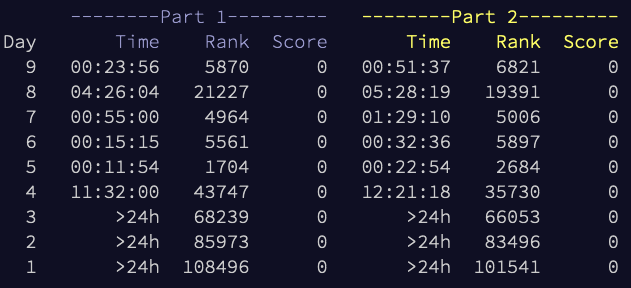
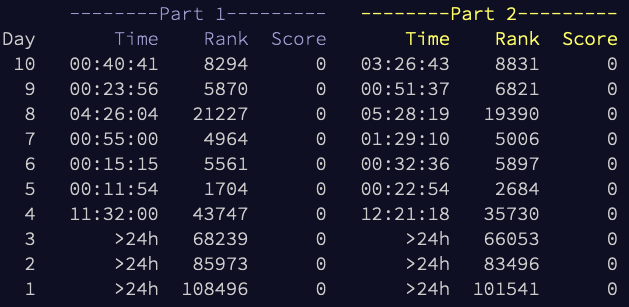
day 10

diff --git a/day_10.js b/day_10.js
@@ -1,0 +1,180 @@
+'use strict'
+
+const rawInput = `56
+139
+42
+28
+3
+87
+142
+57
+147
+6
+117
+95
+2
+112
+107
+54
+146
+104
+40
+26
+136
+127
+111
+47
+8
+24
+13
+92
+18
+130
+141
+37
+81
+148
+31
+62
+50
+80
+91
+33
+77
+1
+96
+100
+9
+120
+27
+97
+60
+102
+25
+83
+55
+118
+19
+113
+49
+133
+14
+119
+88
+124
+110
+145
+65
+21
+7
+74
+72
+61
+103
+20
+41
+53
+32
+44
+10
+34
+121
+114
+67
+69
+66
+82
+101
+68
+84
+48
+73
+17
+43
+140`
+  .split('\n')
+
+const ex0 = `16
+10
+15
+5
+1
+11
+7
+19
+6
+12
+4`.split('\n')
+const example = `28
+33
+18
+42
+31
+14
+46
+20
+48
+47
+24
+23
+49
+45
+19
+38
+39
+11
+1
+32
+25
+35
+8
+17
+7
+9
+4
+2
+34
+10
+3`
+  .split('\n')
+
+const real = 1
+let input = real ? rawInput : example
+input.push(0)
+
+input = input.map(v => 1 * v).sort((a, b) => a - b)
+
+//  Find the count of 1 and 3 step intervals between adapter ratings.
+const q1 = () => {
+  let d1 = 1, d3 = 1, last = 0, d
+
+  for (const v of input) {
+    d = v - last
+    if (v && d === 0) console.log('THE SAME!', v)
+    if (last) {
+      if (d === 3) {
+        ++d3
+      } else if (d === 1) ++d1
+    }
+    last = v
+  }
+  return { d1, d3 }
+}
+
+const end = Math.max.apply(0, input) + 3
+console.log('device', end)
+const a1 = q1(input)
+console.log('Q1:', a1.d1 * a1.d3)
+
+//  Find number of all possible adapter sequences.
+
+let reachables = [[end, 1]], variantsCount
+
+for (let i = input.length, v; (v = input[--i]) !== undefined;) {
+  const max = v + 3
+  reachables = reachables.filter(([w]) => w <= max)
+  variantsCount = reachables.reduce((a, [, n]) => a + n, 0)
+  reachables.push([v, variantsCount])
+}
+
+console.log('Q2', variantsCount)

diff --git a/README.md b/README.md
@@ -1,20 +1,22 @@
 # Advent Of Code
 
-Joined the [adventofcode.com](https://adventofcode.com) races, with just 80 hrs of delay ;)
-
-This repo uses semantic versioning in yy.yy.d format.
+My [adventofcode.com](https://adventofcode.com) adventures.
 
 the files named like `day_xx.js` contain daily quiz solutions as they were born -
 quick and dirty - with no afterwards-makeup.
 Sometimes a `day_xx.nice.js` is there, though.
 
-My personal progress:
+The track record:
 
+* `day 04:` joined the races, with just 80 hrs of delay 🐌🐌🐌
+* `day 05:` feeling sooo competent 😎
 * `day 06:` made _a lot_ of horrible typos... all the time!
-* `day 07:` met something like never before - but I made it - yay! ;).
+* `day 07:` met something like never before - but I made it - yay! 🙃.
 * `day 08:` lost 4 hours, sleeping well. Quiz was not too hard, but on part #2,<br />
-I got stuck at my _"super-simple"_ solution for way too long.
+   I got stuck at my _"super-simple"_ solution for way too long.
 * `day 09:` I _hate_ numbers - I always did!
+* `day 10:` Almost flunked the part#2, wasting several hours trying to apply a tree traversal
+approach that was inadequate. The right solution was much simpler. But, I still hate numbers. 😝
 
 ![](progress.png) ![](quote.png)
 
